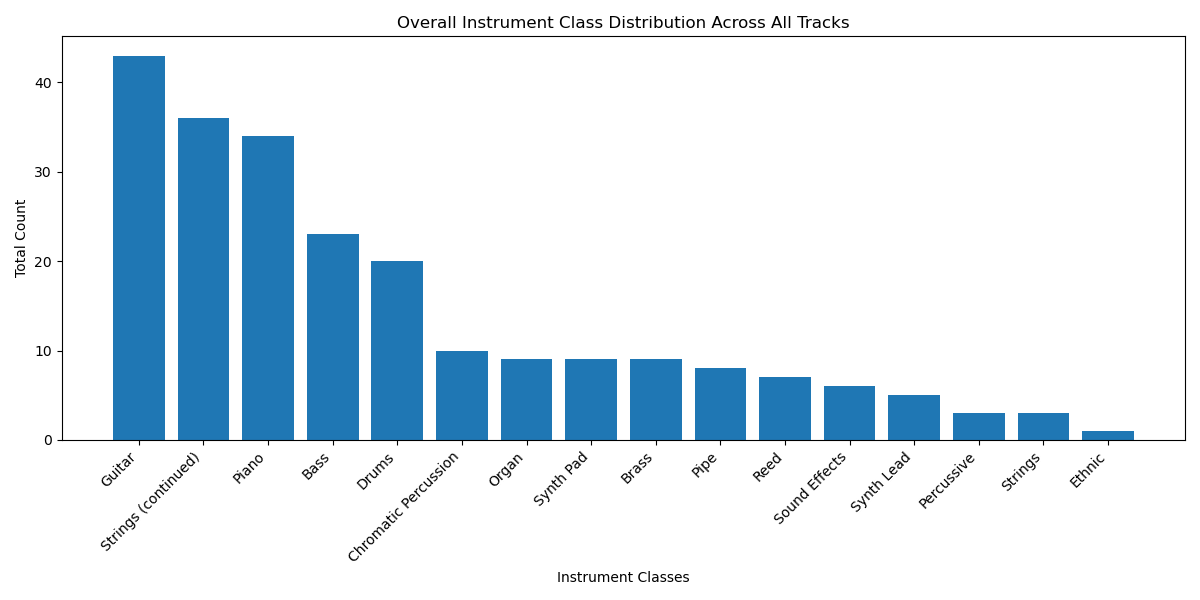
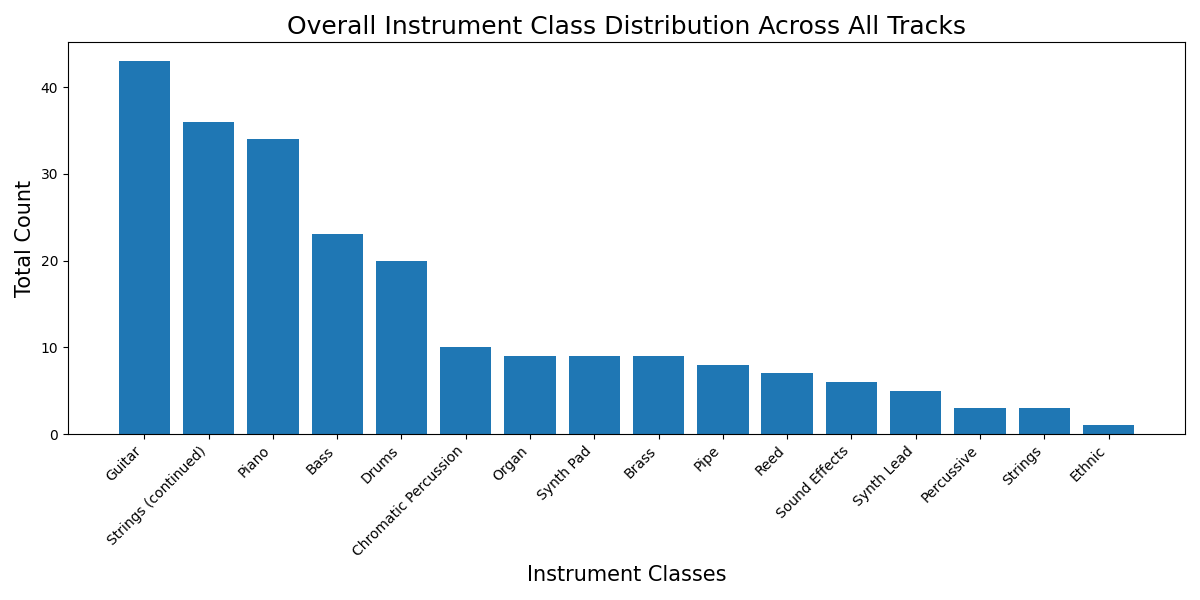
updated font size

diff --git a/src/data_exploration/instrument_counts.py b/src/data_exploration/instrument_counts.py
@@ -59,9 +59,9 @@ def plot_combined_instrument_distribution(instrument_distributions):
     # Plot single combined bar graph
     plt.figure(figsize=(12, 6))
     plt.bar(sorted_counts.keys(), sorted_counts.values())
-    plt.title("Overall Instrument Class Distribution Across All Tracks")
-    plt.xlabel("Instrument Classes")
-    plt.ylabel("Total Count")
+    plt.title("Overall Instrument Class Distribution Across All Tracks", fontsize=18)
+    plt.xlabel("Instrument Classes", fontsize=15)
+    plt.ylabel("Total Count", fontsize=15)
     plt.xticks(rotation=45, ha="right")
     plt.tight_layout()
 
